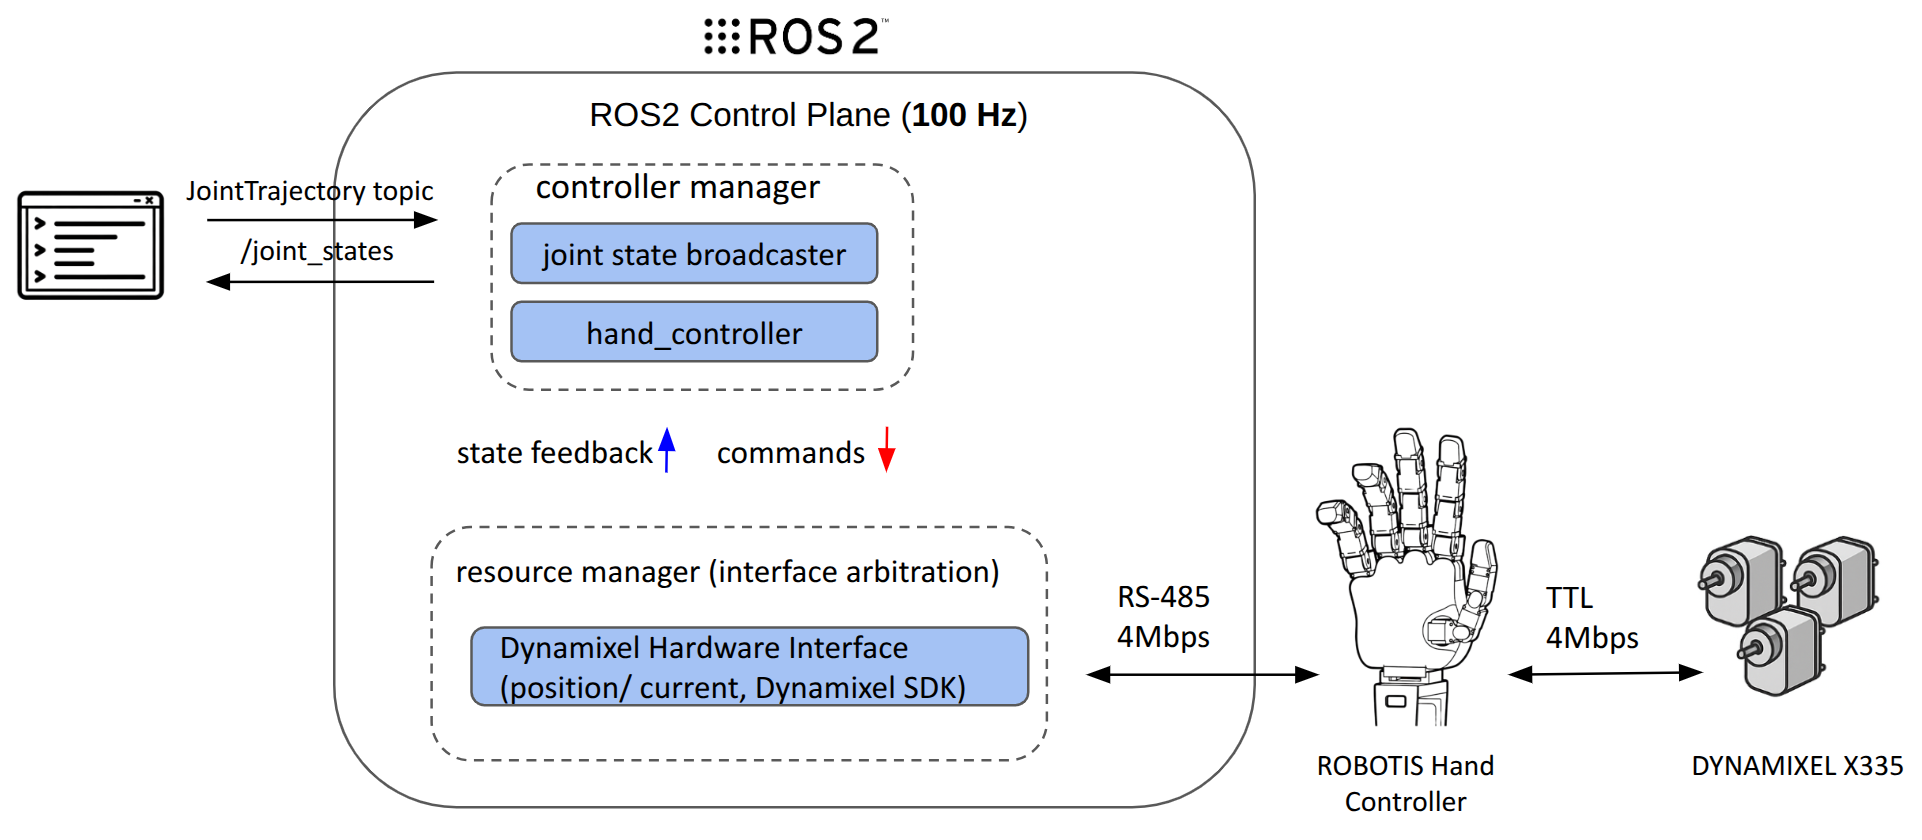
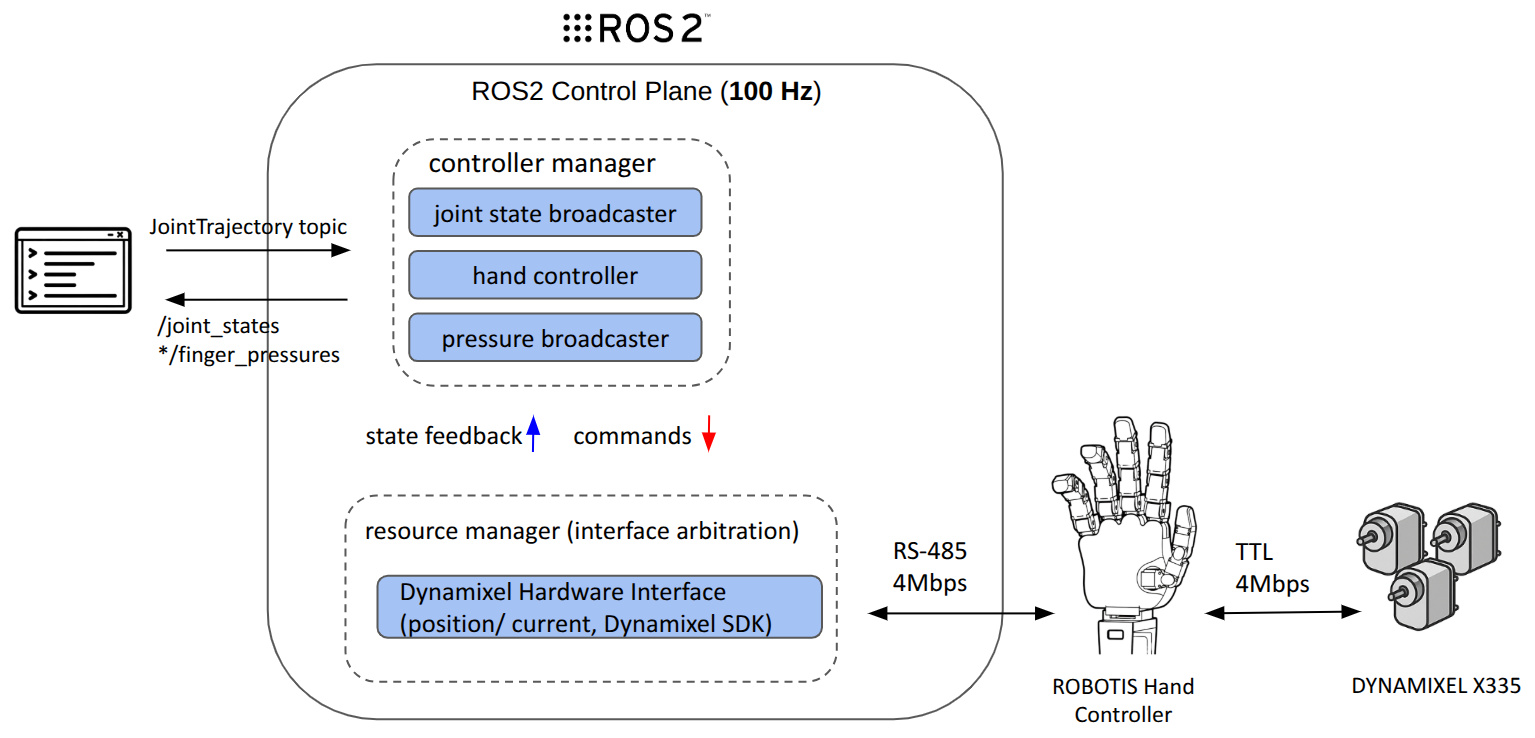
Added hand pressures topic

diff --git a/docs/hands/software_hands.md b/docs/hands/software_hands.md
@@ -83,9 +83,10 @@ DYNAMIXEL Actuators
 | `hand_l_controller` | Left hand | 20 | `/leader/joint_trajectory_command_broadcaster_left_hand/joint_trajectory` |
 | `hand_r_controller` | Right hand | 20 | `/leader/joint_trajectory_command_broadcaster_right_hand/joint_trajectory` |
 | `joint_state_broadcaster` | All joints | – | Publishes to `/joint_states` |
+| `robotis_hand_pressure_broadcaster` | All tactile sensors | – | Publishes to `/left_hand/finger_pressures` or `/right_hand/finger_pressures` |
 :::
 
-All controllers (except `joint_state_broadcaster`) use the **`JointTrajectoryController`** type.
+All controllers (except `broadcaster`) use the **`JointTrajectoryController`** type.
 
 By default, all joints operate in **position mode**.
 
@@ -98,25 +99,31 @@ By default, all joints operate in **position mode**.
   controller_manager:
     ros__parameters:
       use_sim_time: False
-      update_rate: 100  # Hz
+      update_rate: 100 # Hz
 
       joint_state_broadcaster:
         type: joint_state_broadcaster/JointStateBroadcaster
 
-      left_hand_controller:
+      hand_l_controller:
         type: joint_trajectory_controller/JointTrajectoryController
 
-      right_hand_controller:
+      hand_r_controller:
         type: joint_trajectory_controller/JointTrajectoryController
 
-      left_effort_controller:
+      effort_l_controller:
         type: effort_controllers/JointGroupEffortController
 
-      right_effort_controller:
+      effort_r_controller:
         type: effort_controllers/JointGroupEffortController
+
+      pressure_l_broadcaster:
+        type: robotis_hand_pressure_broadcaster/PressureBroadcaster
+
+      pressure_r_broadcaster:
+        type: robotis_hand_pressure_broadcaster/PressureBroadcaster
 
 /**:
-  left_hand_controller:
+  hand_l_controller:
     ros__parameters:
       joints:
         - finger_l_joint1
@@ -148,7 +155,7 @@ By default, all joints operate in **position mode**.
       allow_partial_joints_goal: true
 
 /**:
-  right_hand_controller:
+  hand_r_controller:
     ros__parameters:
       joints:
         - finger_r_joint1
@@ -180,7 +187,7 @@ By default, all joints operate in **position mode**.
       allow_partial_joints_goal: true
 
 /**:
-  left_effort_controller:
+  effort_l_controller:
     ros__parameters:
       joints:
         - finger_l_joint1
@@ -205,7 +212,7 @@ By default, all joints operate in **position mode**.
         - finger_l_joint20
 
 /**:
-  right_effort_controller:
+  effort_r_controller:
     ros__parameters:
       joints:
         - finger_r_joint1
@@ -228,6 +235,48 @@ By default, all joints operate in **position mode**.
         - finger_r_joint18
         - finger_r_joint19
         - finger_r_joint20
+
+/**:
+  pressure_l_broadcaster:
+    ros__parameters:
+      topic_name: /left_hand/finger_pressures
+      sensor_names:
+        - finger_l_sensor1
+        - finger_l_sensor2
+        - finger_l_sensor3
+        - finger_l_sensor4
+        - finger_l_sensor5
+      interface_names:
+        - Present Pressure 1
+        - Present Pressure 2
+        - Present Pressure 3
+        - Present Pressure 4
+        - Present Pressure 5
+        - Present Pressure 6
+        - Present Pressure 7
+        - Present Pressure 8
+        - Present Pressure 9
+
+/**:
+  pressure_r_broadcaster:
+    ros__parameters:
+      topic_name: /right_hand/finger_pressures
+      sensor_names:
+        - finger_r_sensor1
+        - finger_r_sensor2
+        - finger_r_sensor3
+        - finger_r_sensor4
+        - finger_r_sensor5
+      interface_names:
+        - Present Pressure 1
+        - Present Pressure 2
+        - Present Pressure 3
+        - Present Pressure 4
+        - Present Pressure 5
+        - Present Pressure 6
+        - Present Pressure 7
+        - Present Pressure 8
+        - Present Pressure 9
 ```
 :::
 